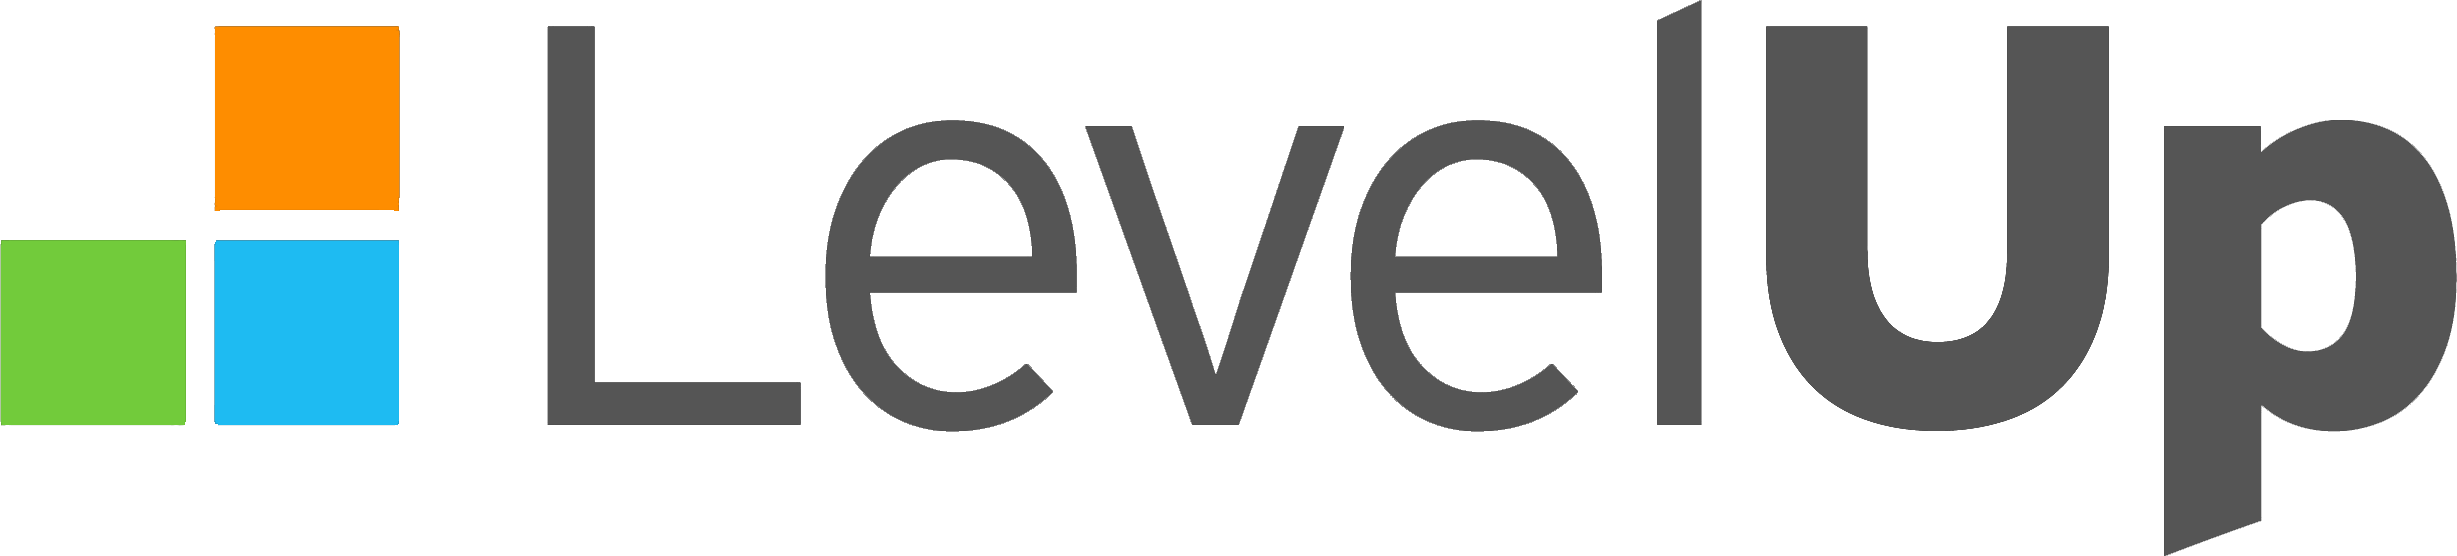
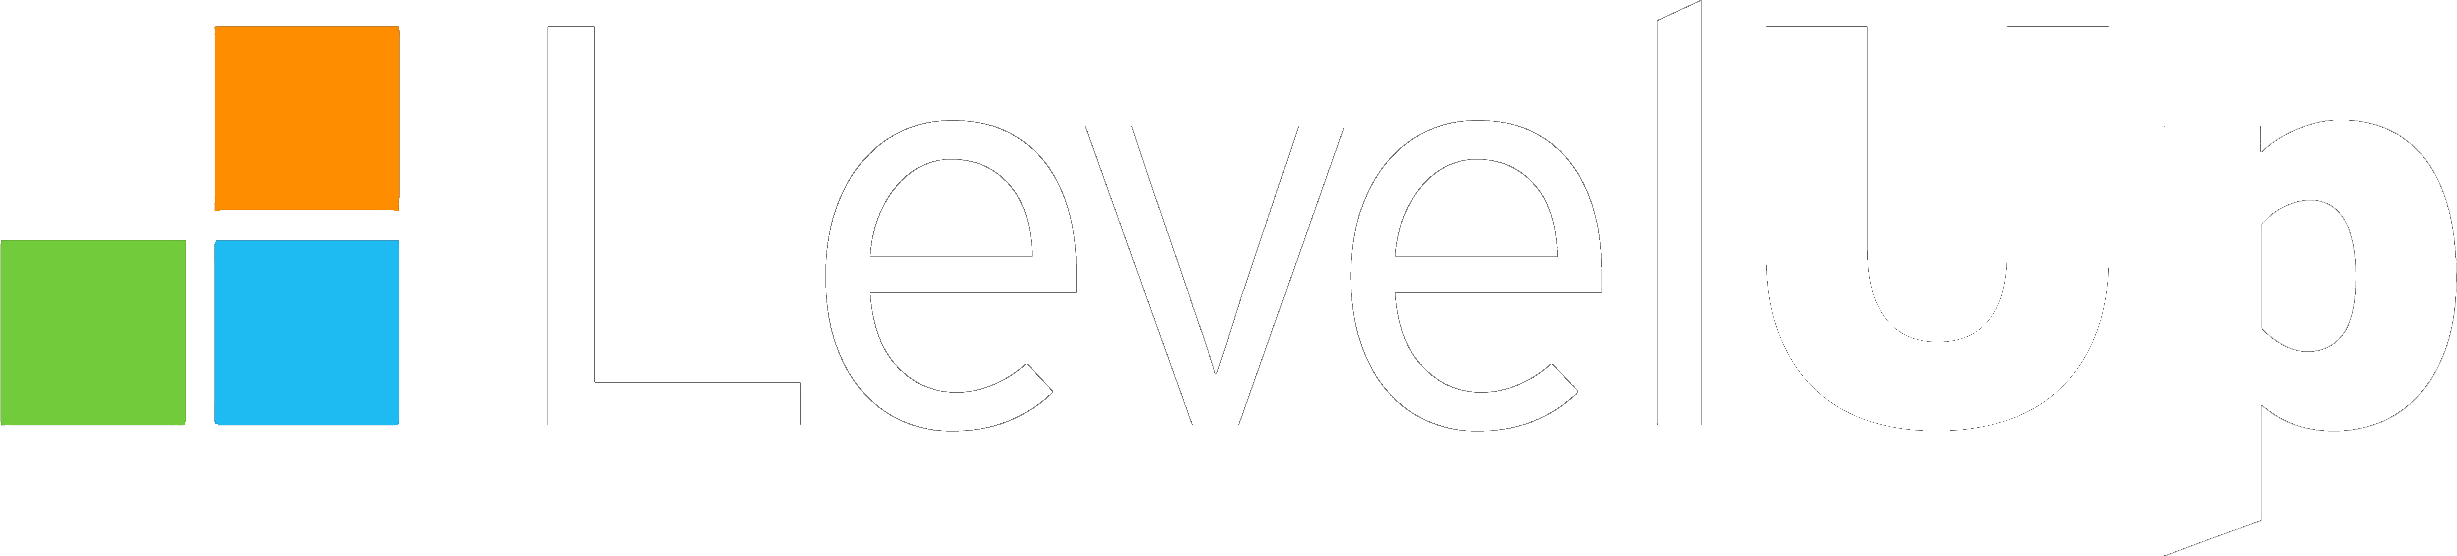
wip

Changed region(s): [[0.2165, 0.0, 1.0, 1.0]]

diff --git a/assets/css/about.css b/assets/css/about.css
@@ -90,6 +90,7 @@
     --autodesk: url(/assets/images/clients/light-mode/autodesk.png);
     --travelers: url(/assets/images/clients/light-mode/travelers.png);
     --manulife: url(/assets/images/clients/light-mode/manulife.png);
+    --levelup: url(/assets/images/clients/light-mode/levelup.png);
   }
 }
 
@@ -98,7 +99,12 @@
     --autodesk: url(/assets/images/clients/dark-mode/autodesk.png);
     --travelers: url(/assets/images/clients/dark-mode/travelers.png);
     --manulife: url(/assets/images/clients/dark-mode/manulife.png);
+    --levelup: url(/assets/images/clients/dark-mode/levelup.png);
   }
+}
+
+#levelup {
+  content: var(--levelup);
 }
 
 #manulife {

diff --git a/about.html b/about.html
@@ -81,7 +81,7 @@ layout: page
       <img id="manulife" class="client-image" />
     </div>
     <div class="client-image-container">
-      <img src="/assets/images/clients/levelup.png" class="client-image" />
+      <img id="levelup" class="client-image" />
     </div>
     <div class="client-image-container">
       <img src="/assets/images/clients/cybex.png" class="client-image" />
